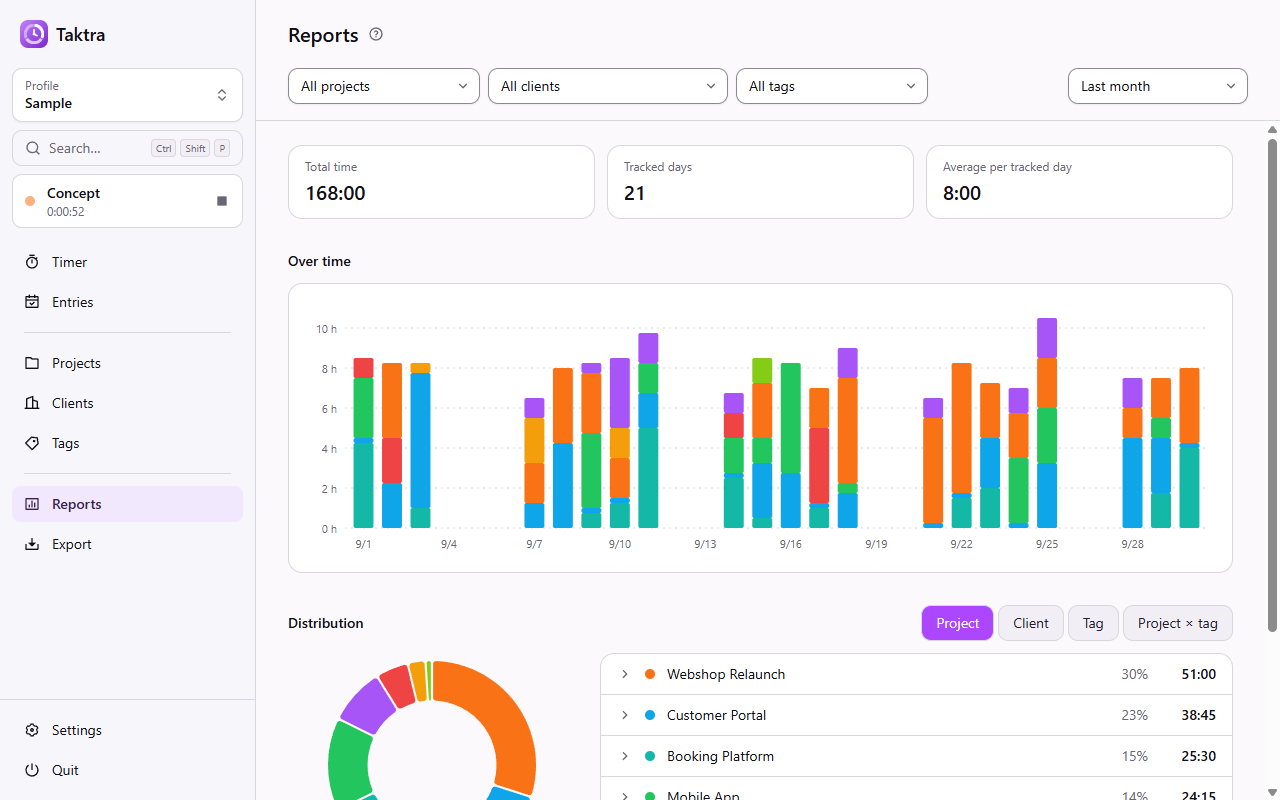
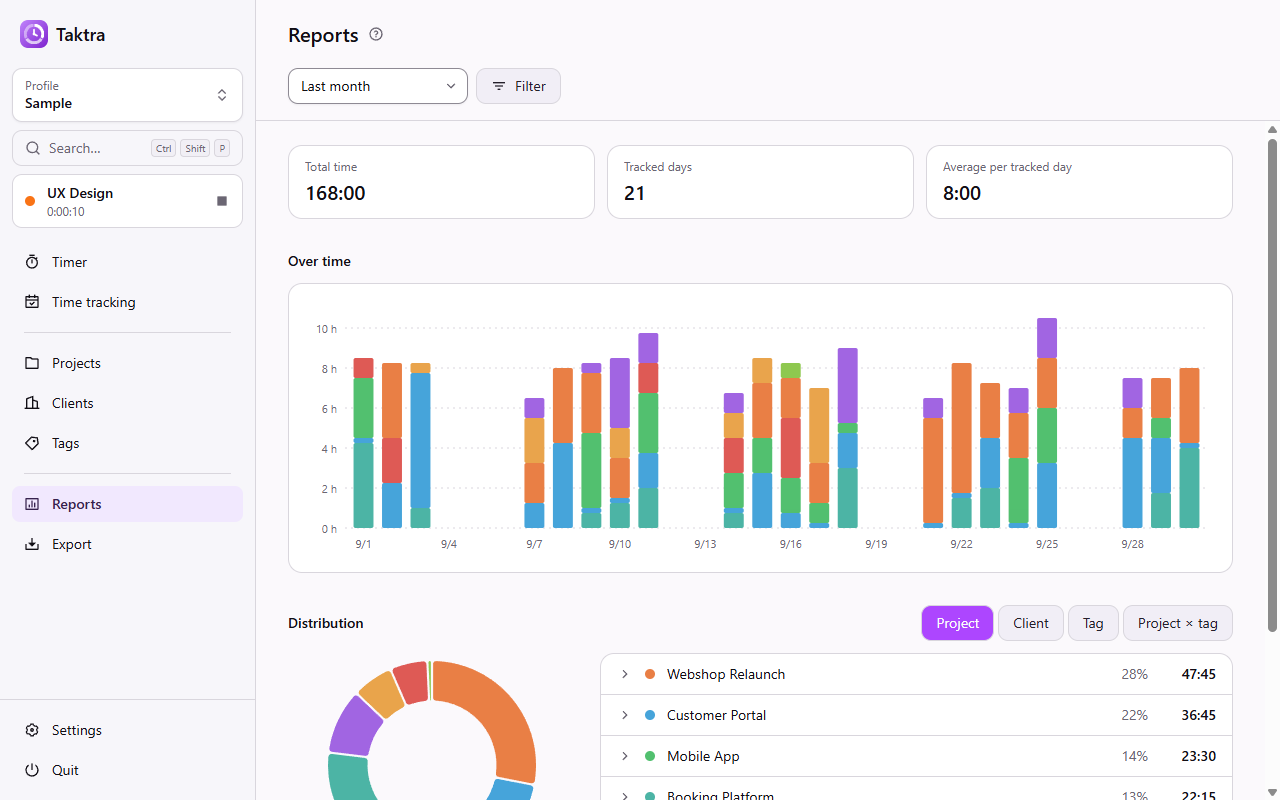
docs: describe the unreleased changes and update the readme screenshots

diff --git a/README.md b/README.md
@@ -52,8 +52,9 @@ machine, and your data is a plain file you own.
 - Quick start from the tray or a global shortcut, and an always-on-top mini timer
 - Reports by project, client and tag over any period
 - Custom fields on projects, clients and activities, e.g. an order number or a cost center
-- Export to CSV, JSON or Excel in a stable format for billing and other tools, with templates for
-  the columns and for sums per day, also with the days as columns like a time sheet
+- Export to CSV, JSON or Excel in a stable format for billing and other tools, with the columns
+  chosen per export and saved as templates on demand, and with sums per day, also with the days
+  as columns like a time sheet
 - Several profiles, each in its own file, like KeePass databases
 - Light and dark theme, English and German, command palette and keyboard shortcuts
 - An in-app help that explains the concepts in short chapters
@@ -64,7 +65,7 @@ machine, and your data is a plain file you own.
   <tr>
     <td width="33%"><a href="./docs/screenshots/entries.png"><img alt="Entries of one day as a timeline" src="./docs/screenshots/entries.png"></a></td>
     <td width="33%"><a href="./docs/screenshots/reports.png"><img alt="Reports with the tracked time per day" src="./docs/screenshots/reports.png"></a></td>
-    <td width="33%"><a href="./docs/screenshots/export.png"><img alt="Export with a preview of the file" src="./docs/screenshots/export.png"></a></td>
+    <td width="33%"><a href="./docs/screenshots/export.png"><img alt="Export as a monthly time sheet with a preview of the file" src="./docs/screenshots/export.png"></a></td>
   </tr>
   <tr>
     <td width="33%"><a href="./docs/screenshots/projects.png"><img alt="Projects of the sample profile" src="./docs/screenshots/projects.png"></a></td>

diff --git a/CHANGELOG.md b/CHANGELOG.md
@@ -7,6 +7,30 @@ and this project adheres to [Semantic Versioning](https://semver.org/spec/v2.0.0
 
 ## [Unreleased]
 
+### Added
+
+- In summed exports, a column can list the distinct values of the summed entries instead of
+  grouping by them, for example all tags of a project.
+- Project rows show the number of activities and the time booked on them.
+- Rows that open a detail view end with an arrow. The detail views of projects, activities and
+  tags show where they belong with a breadcrumb and an icon.
+
+### Changed
+
+- The columns of an export are put together right in the export view, starting from the standard
+  columns. Templates are optional: they save such a choice for reuse and are renamed or deleted in
+  the profile settings.
+- The Entries view is called Time tracking, so it is not mixed up with the entries of an activity.
+- The actions of projects, clients, tags, time entries and export templates moved into a menu per
+  row.
+- Clicking the logo opens the start page. The about dialog stays in the command palette and the
+  app settings.
+- Report charts use calmer colors.
+
+### Fixed
+
+- The export preview counts the rows of the file instead of the entries.
+
 ## [0.4.0] - 2026-10-19
 
 ### Added
